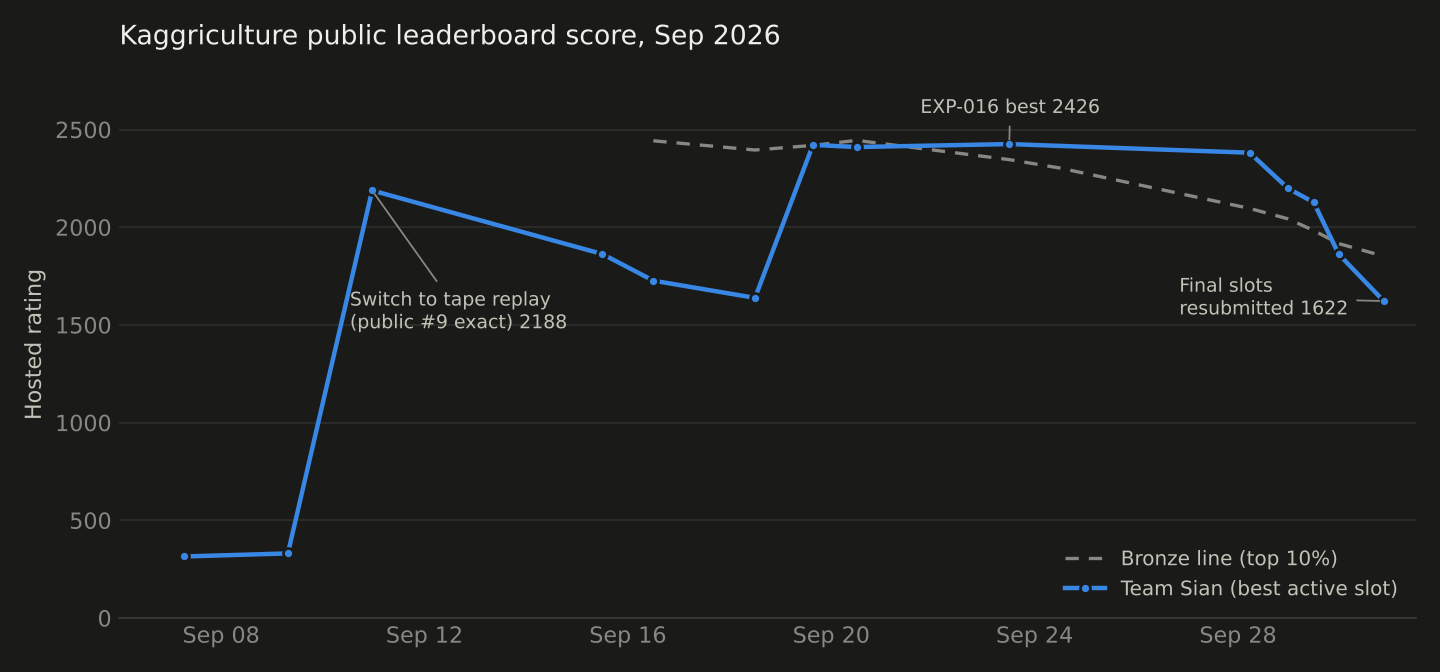
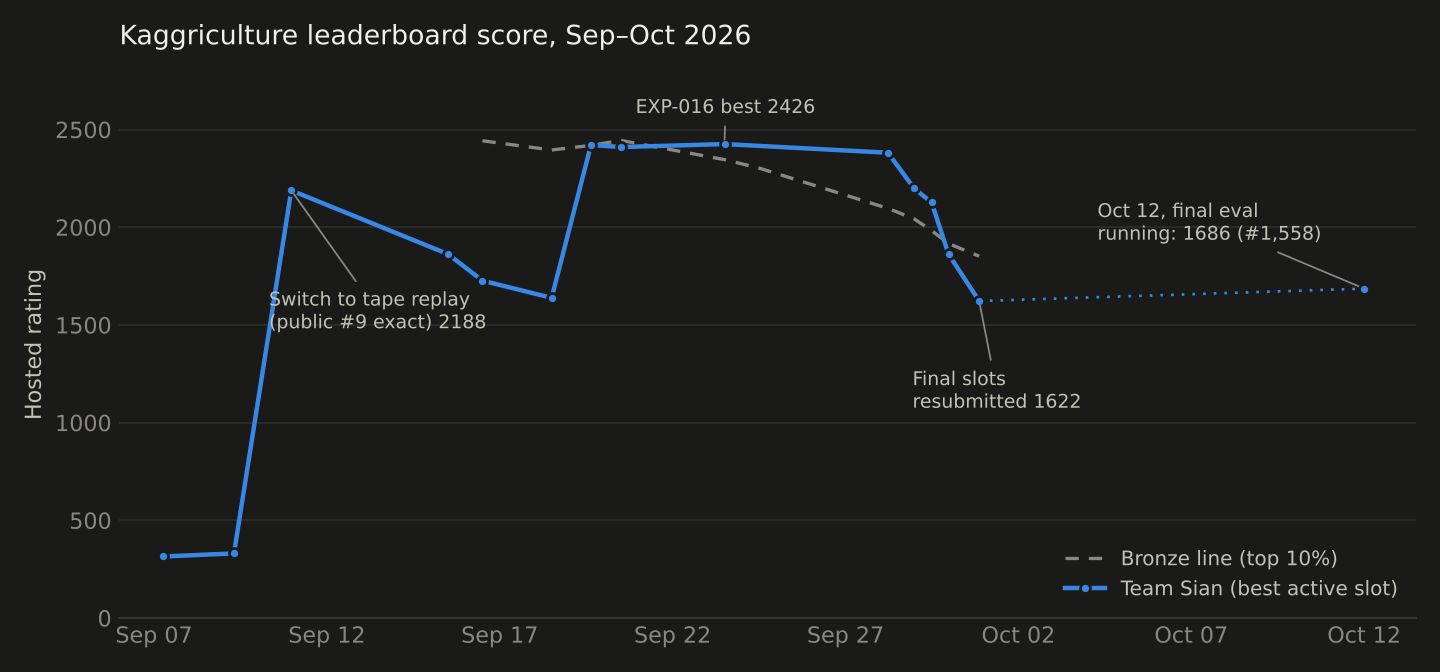
Add "My role" section, update provisional score to 1686 (#1,558)
Claude-Session: https://claude.ai/code/session_01WbRKAREiDUANRg9jawLLrD

diff --git a/media/plot_scores.py b/media/plot_scores.py
@@ -2,15 +2,16 @@
 import datetime as dt, matplotlib
 matplotlib.use("Agg")
 import matplotlib.pyplot as plt, matplotlib.dates as md
-D=lambda s: dt.datetime.strptime(s, "%m-%d %H:%M").replace(year=2026)
+D=lambda s: dt.datetime.strptime("2026-"+s, "%Y-%m-%d %H:%M")
 team=[("09-07 06:20",314.8),("09-09 07:30",330.6),("09-10 23:16",2188.4),("09-15 12:00",1862.6),("09-16 12:00",1726.6),
       ("09-18 12:00",1638.5),("09-19 15:20",2421.6),("09-20 12:00",2410.4),("09-23 12:00",2425.7),("09-28 05:27",2381.4),
-      ("09-28 23:38",2198.8),("09-29 11:45",2127.1),("09-29 23:33",1861.6),("09-30 20:47",1622.2)]
+      ("09-28 23:38",2198.8),("09-29 11:45",2127.1),("09-29 23:33",1861.6),("09-30 20:47",1622.2),("10-12 00:00",1686.0)]
 bronze=[("09-16 12:00",2442.5),("09-18 12:00",2395.3),("09-19 15:20",2418.9),("09-20 12:00",2444.5),("09-23 12:00",2346.1),
         ("09-24 12:00",2302.8),("09-28 05:27",2096.5),("09-28 23:38",2042.8),("09-29 11:45",1983.1),("09-29 23:33",1916.2),("09-30 20:47",1852.0)]
 notes=[("09-10 23:16",2188.4,"Switch to tape replay\n(public #9 exact) 2188",(-10,-62)),
        ("09-23 12:00",2425.7,"EXP-016 best 2426",(-40,14)),
-       ("09-30 20:47",1622.2,"Final slots\nresubmitted 1622",(-92,-6))]
+       ("09-30 20:47",1622.2,"Final slots\nresubmitted 1622",(-30,-48)),
+       ("10-12 00:00",1686.0,"Oct 12, final eval\nrunning: 1686 (#1,558)",(-120,22))]
 T={"light":dict(bg="#fcfcfb",ink="#0b0b0b",ink2="#52514e",mut="#898781",grid="#e1e0d9",base="#c3c2b7",s1="#2a78d6"),
    "dark":dict(bg="#1a1a19",ink="#f0efec",ink2="#c3c2b7",mut="#898781",grid="#2c2c2a",base="#383835",s1="#3987e5")}
 for mode,c in T.items():
@@ -19,17 +20,19 @@ for mode,c in T.items():
     bx=[D(a) for a,_ in bronze]; by=[b for _,b in bronze]
     ax.plot(bx,by,color=c["mut"],lw=1.5,ls=(0,(4,3)),label="Bronze line (top 10%)",zorder=2)
     tx=[D(a) for a,_ in team]; ty=[b for _,b in team]
-    ax.plot(tx,ty,color=c["s1"],lw=2,marker="o",ms=4.5,mec=c["bg"],mew=1.2,label="Team Sian (best active slot)",zorder=3)
+    ax.plot(tx[:-1],ty[:-1],color=c["s1"],lw=2,marker="o",ms=4.5,mec=c["bg"],mew=1.2,label="Team Sian (best active slot)",zorder=3)
+    ax.plot(tx[-2:],ty[-2:],color=c["s1"],lw=1.2,ls=(0,(1,3)),zorder=3)  # no observations in between
+    ax.plot(tx[-1:],ty[-1:],color=c["s1"],lw=0,marker="o",ms=4.5,mec=c["bg"],mew=1.2,zorder=4)
     for a,y,txt,off in notes:
         ax.annotate(txt,(D(a),y),xytext=off,textcoords="offset points",color=c["ink2"],fontsize=8.5,
                     arrowprops=dict(arrowstyle="-",color=c["mut"],lw=0.8))
-    ax.set_ylim(0,2800); ax.set_xlim(D("09-06 00:00"),D("10-01 12:00"))
-    ax.xaxis.set_major_locator(md.DayLocator(interval=4)); ax.xaxis.set_major_formatter(md.DateFormatter("%b %d"))
+    ax.set_ylim(0,2800); ax.set_xlim(D("09-06 00:00"),D("10-13 12:00"))
+    ax.xaxis.set_major_locator(md.DayLocator(interval=5)); ax.xaxis.set_major_formatter(md.DateFormatter("%b %d"))
     ax.grid(axis="y",color=c["grid"],lw=0.8); ax.set_axisbelow(True)
     for s in ("top","right","left"): ax.spines[s].set_visible(False)
     ax.spines["bottom"].set_color(c["base"]); ax.tick_params(colors=c["mut"],length=0)
     ax.set_ylabel("Hosted rating",color=c["ink2"])
-    ax.set_title("Kaggriculture public leaderboard score, Sep 2026",loc="left",color=c["ink"],fontsize=12,pad=12)
+    ax.set_title("Kaggriculture leaderboard score, Sep–Oct 2026",loc="left",color=c["ink"],fontsize=12,pad=12)
     leg=ax.legend(loc="lower right",frameon=False,fontsize=9); [t.set_color(c["ink2"]) for t in leg.get_texts()]
     fig.tight_layout(); fig.savefig(f"media/score_trajectory_{mode}.png",facecolor=c["bg"]); plt.close(fig)
 print("ok")
